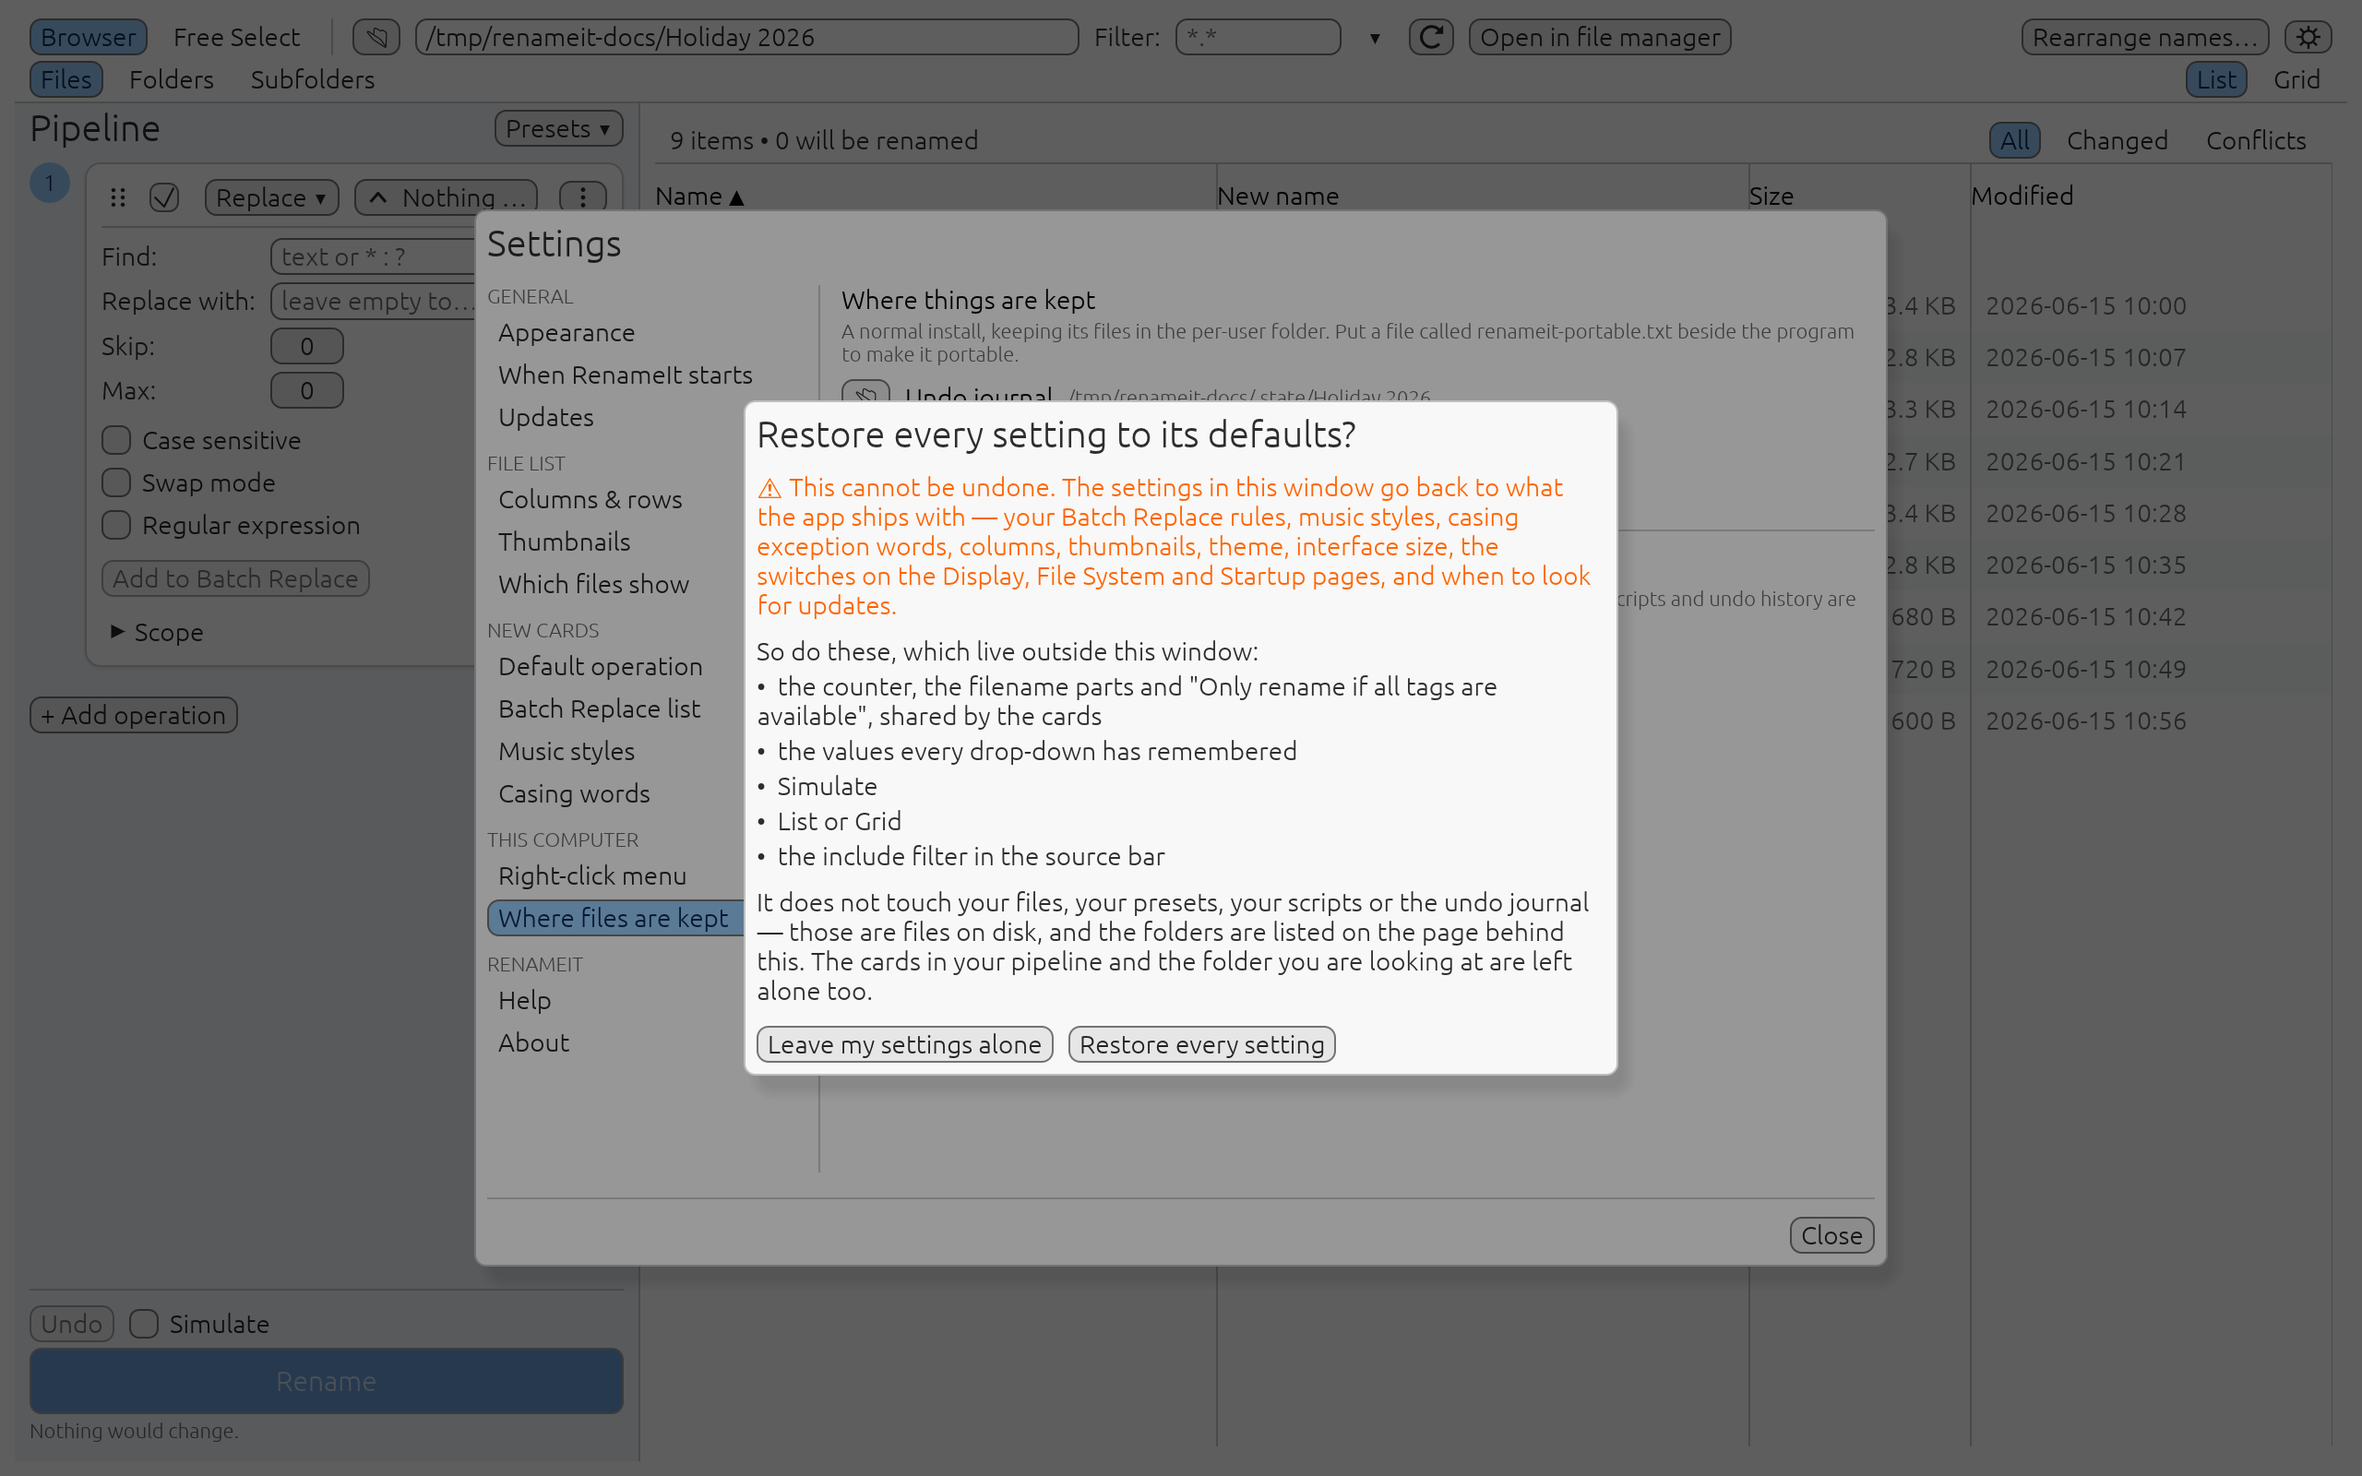
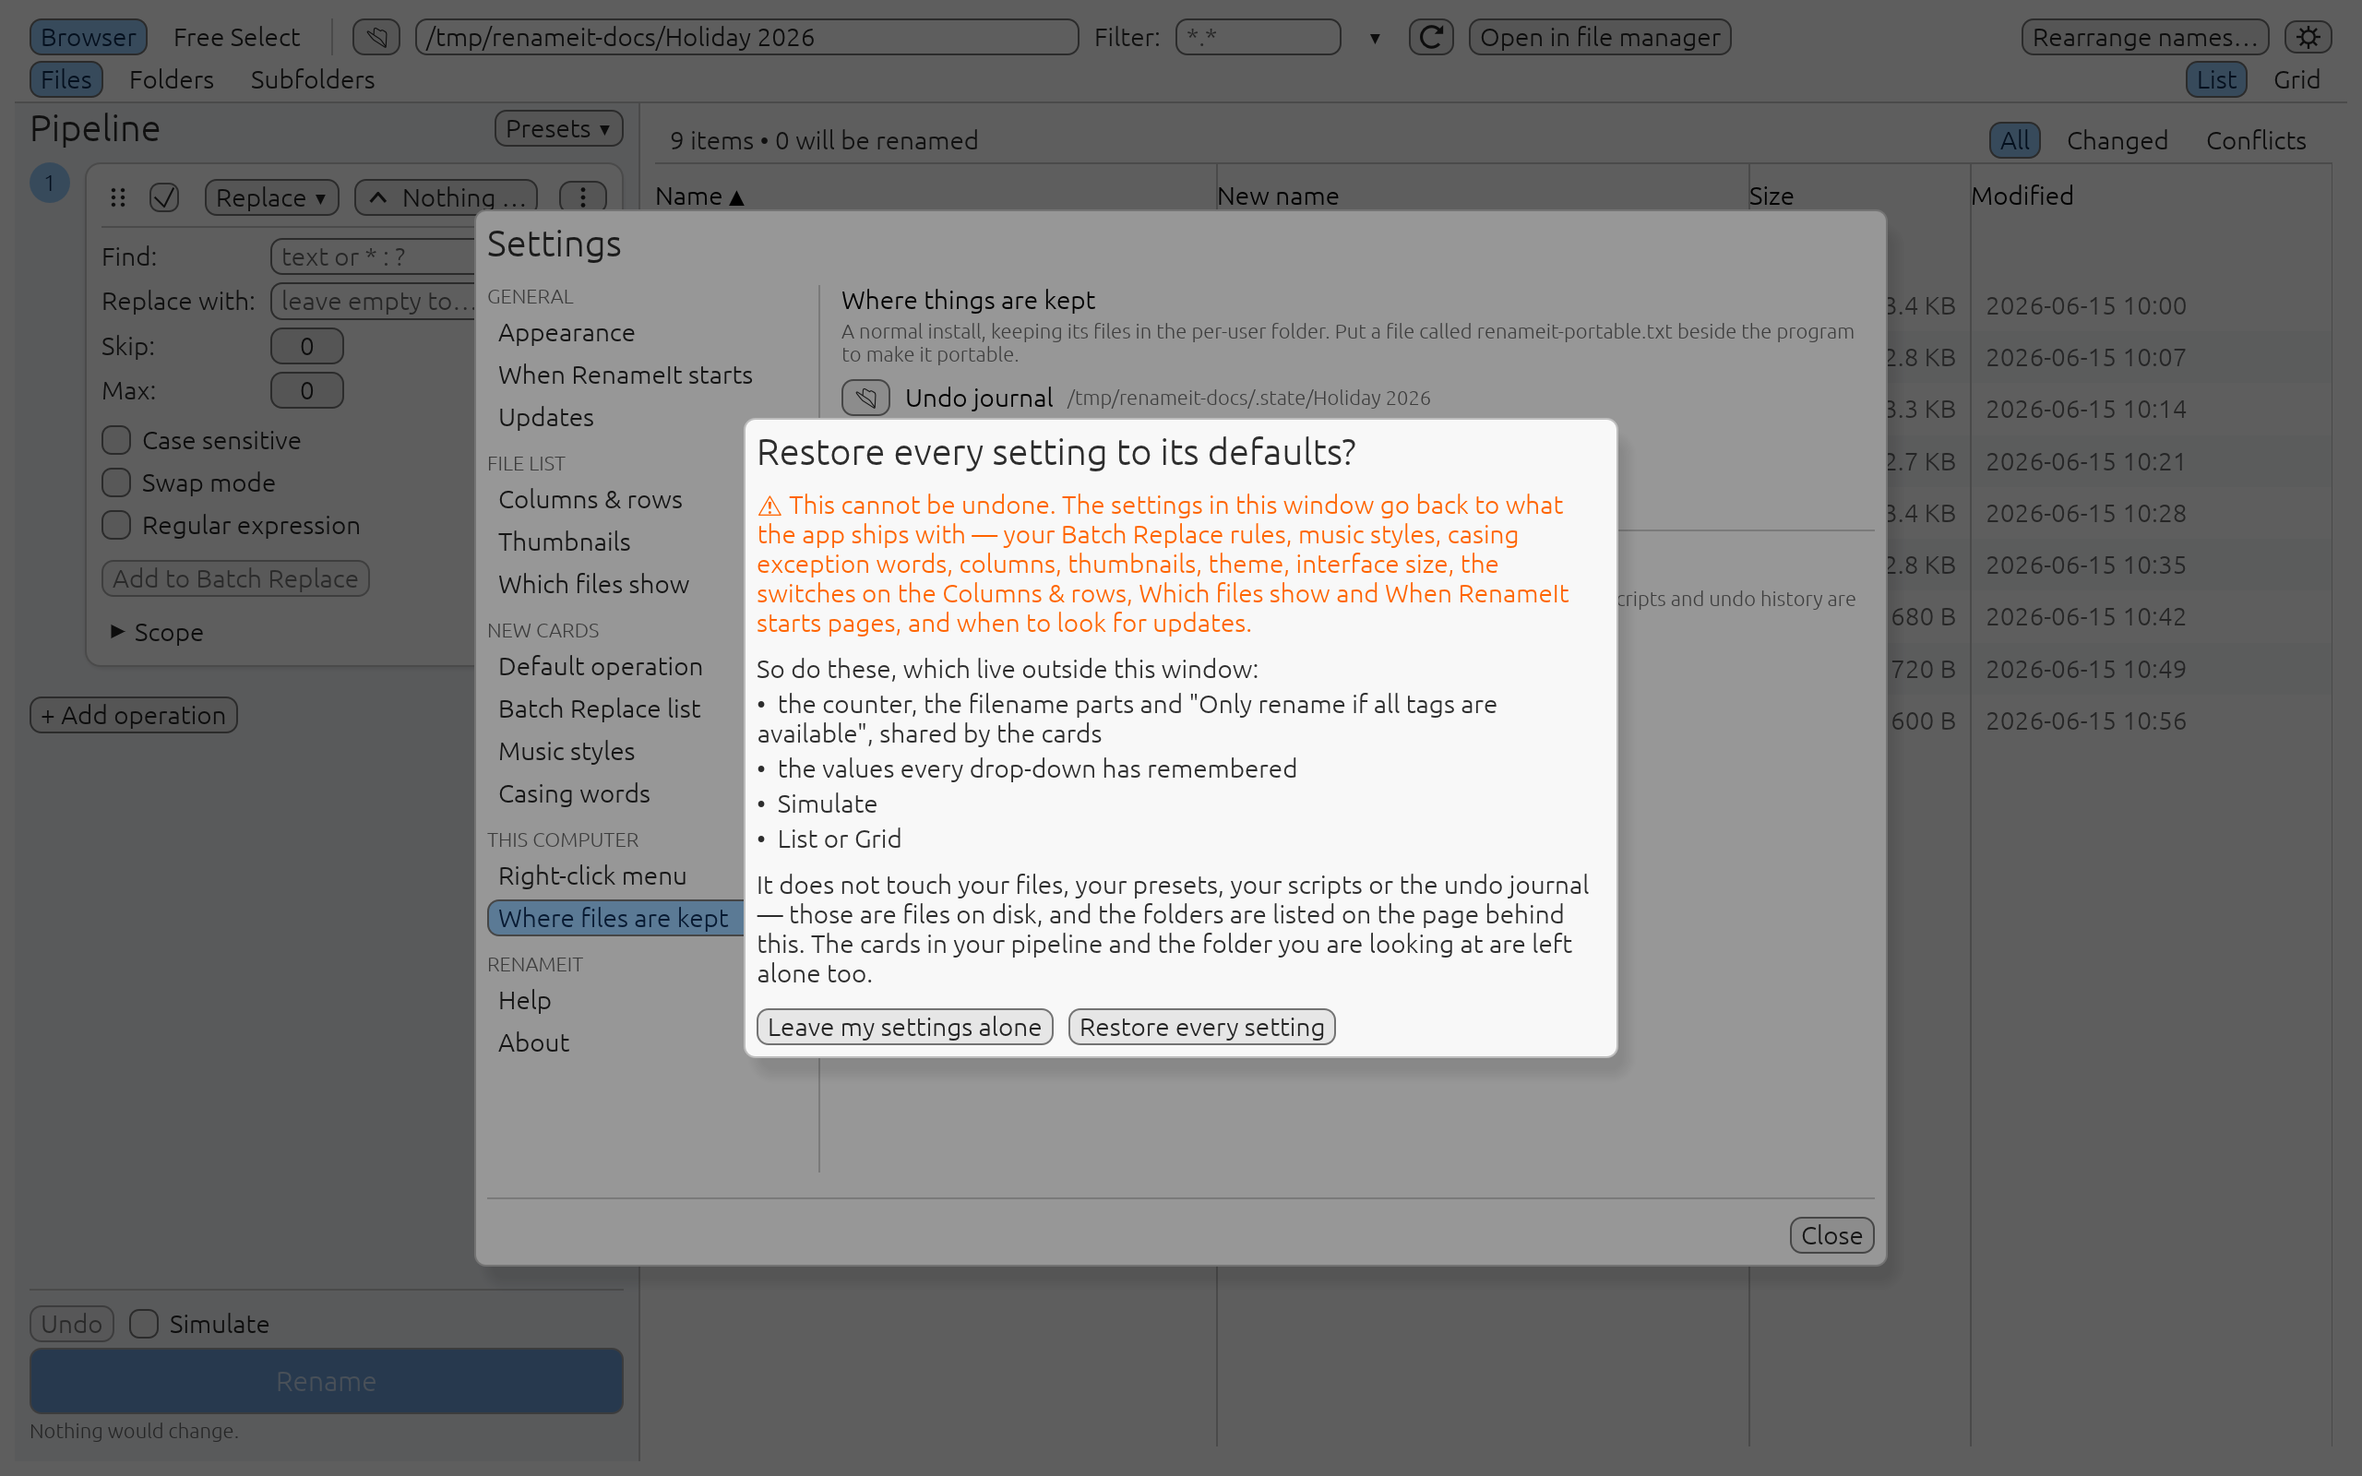
GUI: hints name the Settings pages by their current titles; the Filter box by its name
Sentences that name a Settings page take the title from Page::label(), so they
follow a rename. The reset dialog no longer lists the include filter (merged
into the Filter box, P121). The Help page puts the Rename reason below the
button, where it is drawn.

Changed region(s): [[0.3125, 0.25, 0.6875, 0.75]]

diff --git a/crates/ren-gui/src/panels/confirm.rs b/crates/ren-gui/src/panels/confirm.rs
@@ -24,6 +24,8 @@
 
 use ren_core::{Plan, PlannedOp, Undoability};
 
+use crate::panels::settings::Page;
+
 /// The dialog while it is up — a **snapshot** of the plan it was opened for.
 ///
 /// Everything is computed once, in [`Confirm::new`]. Two reasons, and the
@@ -250,9 +252,10 @@ pub fn ui(ctx: &egui::Context, state: &Confirm) -> Outcome {
 /// it names, one by one, everything it puts back that is **not** on a Settings
 /// page, because those are the ones nobody would guess: the run-wide settings
 /// the cards share (the counter, Setup Parts and the tag policy, which a saved
-/// pipeline also carries, D254), the remembered values behind every drop-down, Simulate, List or
-/// Grid, and the include filter. The list is `RenameItApp::reset_settings`,
-/// field by field; D156 as amended says the same.
+/// pipeline also carries, D254), the remembered values behind every drop-down,
+/// Simulate, and List or Grid. The Filter box is not on it: what you filtered
+/// to stays (P121). The list is `RenameItApp::reset_settings`, field by field;
+/// D156 as amended says the same.
 pub fn reset_ui(ctx: &egui::Context) -> Outcome {
     let mut outcome = Outcome::Open;
 
@@ -261,12 +264,15 @@ pub fn reset_ui(ctx: &egui::Context) -> Outcome {
         ui.heading("Restore every setting to its defaults?");
         ui.add_space(6.0);
         ui.label(
-            egui::RichText::new(
+            egui::RichText::new(format!(
                 "⚠ This cannot be undone. The settings in this window go back to what the app \
                  ships with — your Batch Replace rules, music styles, casing exception words, \
-                 columns, thumbnails, theme, interface size, the switches on the Display, \
-                 File System and Startup pages, and when to look for updates.",
-            )
+                 columns, thumbnails, theme, interface size, the switches on the {}, {} and \
+                 {} pages, and when to look for updates.",
+                Page::Columns.label(),
+                Page::FileSystem.label(),
+                Page::Startup.label(),
+            ))
             .color(ui.visuals().warn_fg_color),
         );
         ui.add_space(6.0);
@@ -300,12 +306,11 @@ pub fn reset_ui(ctx: &egui::Context) -> Outcome {
 
 /// What the reset puts back that no Settings page shows, in the order the
 /// dialog lists it.
-const RESET_OUTSIDE_THE_WINDOW: [&str; 5] = [
+const RESET_OUTSIDE_THE_WINDOW: [&str; 4] = [
     "the counter, the filename parts and \"Only rename if all tags are available\", shared by the cards",
     "the values every drop-down has remembered",
     "Simulate",
     "List or Grid",
-    "the include filter in the source bar",
 ];
 
 #[cfg(test)]

diff --git a/crates/ren-gui/src/panels/settings.rs b/crates/ren-gui/src/panels/settings.rs
@@ -932,7 +932,7 @@ fn file_system_ui(ui: &mut egui::Ui, session: &mut SessionSettings) -> bool {
     ui.separator();
     ui.add_space(6.0);
 
-    ui.label(egui::RichText::new("Pattern box applies to").strong());
+    ui.label(egui::RichText::new("Filter applies to").strong());
     ui.horizontal(|ui| {
         for (scope, label) in [
             (PatternScope::Both, "Both"),
@@ -1002,7 +1002,7 @@ fn startup_ui(ui: &mut egui::Ui, startup: &mut Startup) {
             "So a start is never slow: a deep tree left switched on is walked before the \
              window appears.",
         );
-    ui.checkbox(&mut startup.clear_pattern, "Clear the pattern box")
+    ui.checkbox(&mut startup.clear_pattern, "Clear the Filter box")
         .on_hover_text("So a forgotten *.mp3 does not silently hide everything else");
     ui.checkbox(&mut startup.clear_pipeline, "Clear the pipeline")
         .on_hover_text(
@@ -1133,7 +1133,7 @@ fn help_ui(ui: &mut egui::Ui) {
     for (problem, answer) in [
         (
             "The Rename button is greyed out",
-            "It always says why, just above itself. A conflict blocks the whole run rather \
+            "It always says why, just below the button. A conflict blocks the whole run rather \
              than skipping a file, because the alternative is renaming some of your files \
              and not others.",
         ),
@@ -1144,7 +1144,7 @@ fn help_ui(ui: &mut egui::Ui) {
         ),
         (
             "Some files are missing from the list",
-            "Check the pattern box, the Files/Folders switches, and Settings ▸ Which files show. \
+            "Check the Filter box, the Files/Folders switches, and Settings ▸ Which files show. \
              Anything the walk could not read is counted beside the folder path.",
         ),
         (

diff --git a/crates/ren-gui/src/panels/run_controls.rs b/crates/ren-gui/src/panels/run_controls.rs
@@ -16,6 +16,7 @@ use std::path::Path;
 
 use ren_core::{Counts, Plan, PlannedOp};
 
+use crate::panels::settings::Page;
 use crate::viewmodel::{History, RowFilter, Session};
 
 /// What the run controls want the app to do.
@@ -369,8 +370,9 @@ fn blocked_reason(
     if let Some(folder) = guarded {
         return Some(format!(
             "{} belongs to the operating system. Renaming inside it can break this machine in \
-             ways undo cannot fix. Turn the guard off in Settings ▸ File System if you mean it.",
-            folder.display()
+             ways undo cannot fix. Turn the guard off in Settings ▸ {} if you mean it.",
+            folder.display(),
+            Page::FileSystem.label()
         ));
     }
     // Then the empty pipeline, because it is the identity: every row would come

diff --git a/crates/ren-gui/src/editors/music_rename.rs b/crates/ren-gui/src/editors/music_rename.rs
@@ -19,6 +19,7 @@ use ren_core::ops::MusicRename;
 use ren_core::template::TextTemplate;
 
 use super::EditorCx;
+use crate::panels::settings::Page;
 use crate::widgets::form::{After, Form};
 use crate::widgets::tag_field::tag_field;
 
@@ -42,7 +43,10 @@ pub fn ui(ui: &mut egui::Ui, op: &mut MusicRename, cx: &EditorCx<'_>) -> bool {
         ui.label(egui::RichText::new("Rename music based on tags").strong());
         if ui
             .link("(edit styles)")
-            .on_hover_text("Settings ▸ Music Styles — the list these radios offer")
+            .on_hover_text(format!(
+                "Settings ▸ {} — the list these radios offer",
+                Page::MusicStyles.label()
+            ))
             .clicked()
         {
             cx.requests.edit_music_styles.set(true);

diff --git a/crates/ren-gui/tests/gui.rs b/crates/ren-gui/tests/gui.rs
@@ -3770,6 +3770,8 @@ fn a_guarded_folder_blocks_the_run_with_a_reason() {
     let reason = harness.state().blocked_reason().expect("the guard blocks");
     assert!(reason.contains("operating system"), "{reason}");
     assert!(reason.contains("undo cannot fix"), "{reason}");
+    // It names the page the switch is on, by that page's title.
+    assert!(reason.contains("Settings ▸ Which files show"), "{reason}");
 
     // And it is a decision the user can take.
     harness.key_press(egui::Key::F8);
@@ -6610,7 +6612,6 @@ fn the_reset_dialog_names_everything_outside_the_window_it_puts_back() {
         "remembered",
         "Simulate",
         "List or Grid",
-        "include filter",
     ] {
         assert!(
             harness.query_all_by_label_contains(what).count() >= 1,

diff --git a/crates/ren-gui/src/panels/file_table.rs b/crates/ren-gui/src/panels/file_table.rs
@@ -612,7 +612,7 @@ pub(super) fn empty_state(
         // files" (P63's principle: never let rows vanish quietly).
         (
             "Every row is filtered out",
-            "The Files/Folders switches, the pattern box and the All/Changed/Conflicts \
+            "The Files/Folders switches, the Filter box and the All/Changed/Conflicts \
              chips each hide rows.",
         )
     } else if listing {

diff --git a/docs/manual.md b/docs/manual.md
@@ -259,10 +259,10 @@ Press ⚙ at the top right, or **F8**. The rail on the left groups the pages und
 The app remembers where you were; these switches, all off by default, tell it what to forget. They take effect at the next start.
 
 - **Uncheck Subfolders**, so a start is never slow.
-- **Clear the pattern box**, so a forgotten `*.mp3` does not hide everything else.
+- **Clear the Filter box**, so a forgotten `*.mp3` does not hide everything else.
 - **Clear the pipeline**, so the next person at this machine does not see what you were renaming.
 
-<img src="screenshots/settings-startup.png" alt="Settings, When RenameIt starts: Uncheck Subfolders, Clear the pattern box and Clear the pipeline, all unticked" width="800">
+<img src="screenshots/settings-startup.png" alt="Settings, When RenameIt starts: Uncheck Subfolders, Clear the Filter box and Clear the pipeline, all unticked" width="800">
 
 ### Updates
 
@@ -294,10 +294,10 @@ On Windows:
 ### Which files show
 
 - **Show**: **Hidden files and folders**, **System files and folders**, **Write-protected files and folders**, all on by default.
-- **Pattern box applies to**: **Both**, **Files** or **Folders**. Only matters with both Files and Folders switched on.
+- **Filter applies to**: **Both**, **Files** or **Folders**. Only matters with both Files and Folders switched on.
 - **System folders**: **Refuse to rename inside operating-system folders** (on). With it on, Rename refuses inside `C:\Windows`, Program Files, `/usr`, `/etc` and the like, because undo cannot fix a machine that no longer boots.
 
-<img src="screenshots/settings-file-system.png" alt="Settings, Which files show: the three Show boxes ticked, Pattern box applies to Both, and Refuse to rename inside operating-system folders ticked" width="800">
+<img src="screenshots/settings-file-system.png" alt="Settings, Which files show: the three Show boxes ticked, Filter applies to Both, and Refuse to rename inside operating-system folders ticked" width="800">
 
 ### Default operation
 
@@ -340,13 +340,13 @@ On Windows 11 the menu is under **Show more options** (or **Shift+F10**). Window
 
 ### Where files are kept
 
-The **Undo journal**, **Presets** and **Scripts** folders this copy uses, each with 📂 to open it, and whether this is a portable copy. **Reset all settings…** puts every setting back to what the app ships with, after a confirmation that lists everything it restores, including the counter, the filename parts, the drop-downs' remembered values, Simulate, List or Grid and the filter. It never touches your files, presets, scripts, the undo journal, your pipeline or the folder you are in.
+The **Undo journal**, **Presets** and **Scripts** folders this copy uses, each with 📂 to open it, and whether this is a portable copy. **Reset all settings…** puts every setting back to what the app ships with, after a confirmation that lists everything it restores, including the counter, the filename parts, the drop-downs' remembered values, Simulate and List or Grid. It never touches your files, presets, scripts, the undo journal, your pipeline, the folder you are in or the Filter box.
 
 1. Press **Reset all settings…**.
 2. Read the list.
 3. Press **Restore every setting**, or **Leave my settings alone**.
 
-<img src="screenshots/dialog-reset.png" alt="The dialog Restore every setting to its defaults? over Settings: what goes back, the five things outside the window, what it leaves alone, and the buttons Leave my settings alone and Restore every setting" width="800">
+<img src="screenshots/dialog-reset.png" alt="The dialog Restore every setting to its defaults? over Settings: what goes back, the four things outside the window, what it leaves alone, and the buttons Leave my settings alone and Restore every setting" width="800">
 
 ### Help
 

diff --git a/docs/screenshots/README.md b/docs/screenshots/README.md
@@ -7,7 +7,7 @@ them, see [Screenshots](../../README.md#screenshots) in the README.
 
 ## The main window
 
-A folder of holiday photos with two cards on the stack — Find & Replace turns
+A folder of holiday photos with two cards on the stack — Replace turns
 `_` into spaces, Set Casing makes the words Title Case — and the file list
 showing each old name beside its new one, the changed part in green.
 
@@ -132,7 +132,7 @@ A pipeline with `<Ask>` in it asks for the text when you press Rename.
 The ⌖ button beside a position or find box (or **F3**) shows the text that
 operation is handed; select part of it and press **Select** to fill the box.
 
-<img src="visual-assist.png" alt="The Visual Assist strip on a Find &amp; Replace card: the name beach_at_sunset with _at_ selected" width="800">
+<img src="visual-assist.png" alt="The Visual Assist strip on a Replace card: the name beach_at_sunset with _at_ selected" width="800">
 
 ## Settings
 
@@ -165,7 +165,7 @@ Thumbnail size and border, for the Thumb column and the grid.
 
 ### Which files show
 
-Hidden and system files, what the pattern box applies to, and the
+Hidden and system files, what the Filter applies to, and the
 system-folder guard.
 
 <img src="settings-file-system.png" alt="Settings, Which files show page" width="800">
